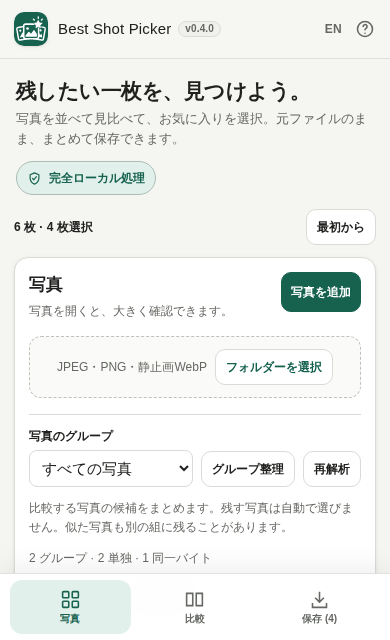
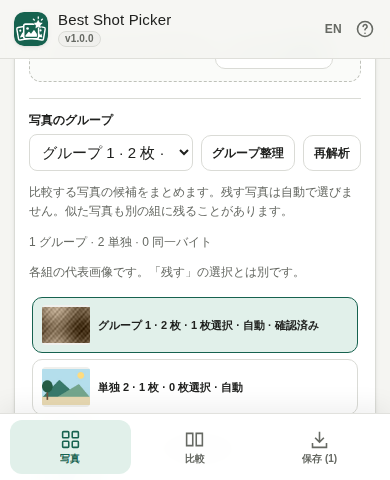
docs: refresh v1 screenshots and record release validation

diff --git a/docs/VALIDATION.md b/docs/VALIDATION.md
@@ -26,6 +26,14 @@ Latest published baseline: **v0.8.0-beta.2**, [PR20](https://github.com/ttomohis
 
[1 lines of base64/hex data omitted]
 
+At code head `66e46b8913f4ab9b1c460ce0e88cb45ca5feb30f`, [validation run 39171691539](https://github.com/ttomohisa/htmlapps-best-shot-picker/actions/runs/39171691539) passed, including both file-mode HTML forms and the existing Chromium/Firefox/WebKit core scenarios. The first browser job stopped while acquiring its fixed public adult-photo corpus with an external HTTP 500, before browser execution. One explicitly authorized same-code retry acquired the corpus and completed successfully. The existing [bounded rendering](https://github.com/ttomohisa/htmlapps-best-shot-picker/actions/runs/39171691590) and [isolated face probe](https://github.com/ttomohisa/htmlapps-best-shot-picker/actions/runs/39171691726) also passed. No additional manual load run was started.
+
[1 lines of base64/hex data omitted]
+
+README EN/JA images are unchanged PNG captures from preview artifact `12152354863` (`preview.en.png`, `preview.ja.png`); the mobile image is the Japanese 390px capture from Chromium artifact `12151729665`. Independent visual review covered those images and all twelve Chromium group-thumbnail views: both HTML forms × EN/JA × 320/390/1360px. The complete v1.0.0 badge and narrow navigation were visible without horizontal clipping. These are automated browser captures, not physical-phone evidence. A separate dot cloud Chrome visit could not attach to a browser target; no successful manual interactive preview visit is claimed.
+
+The subsequent evidence/screenshot commit changes only `docs/VALIDATION.md` and the three `assets/screenshot*.png` files. They are not build inputs: source, configuration, build scripts, embedded models, dependency pins, tests, workflows and the tracked generated root HTML remain identical to the verified code head. Its existing automatic checks are reported in [PR21](https://github.com/ttomohisa/htmlapps-best-shot-picker/pull/21); no extra manual rerun is implied.
+
[1 lines of base64/hex data omitted]
 
 ### Historical v0.8.0-beta.1 candidate checks
